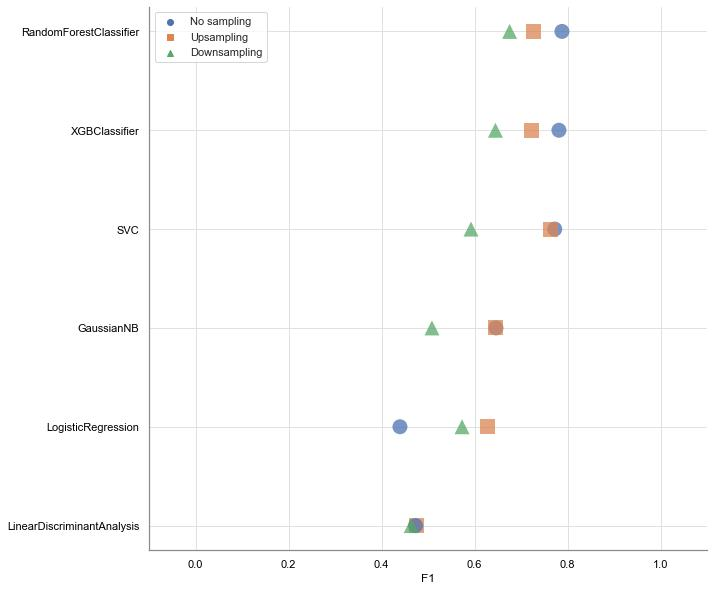
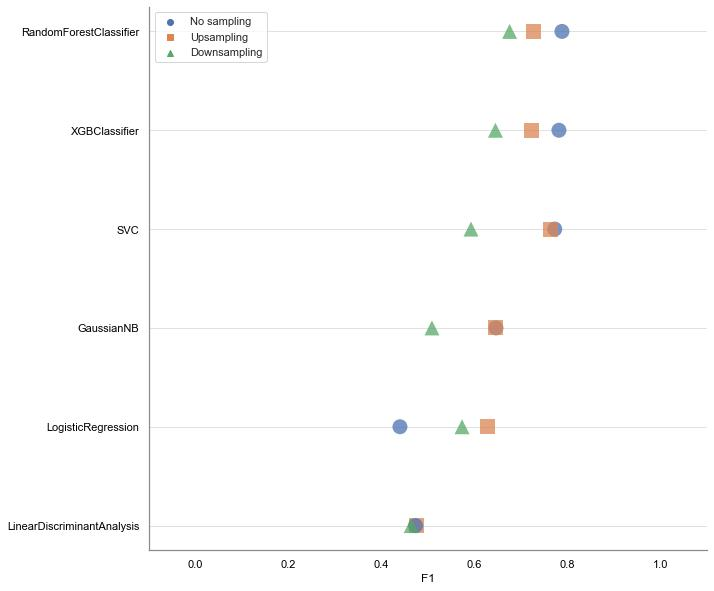
removed vertical gridlines

diff --git a/code/model_comparison.py b/code/model_comparison.py
@@ -42,7 +42,7 @@ for idx, val in enumerate(df.columns[2:]):
     ax.tick_params(axis='x', colors = light[0], labelcolor=dark_bright[0])
     ax.tick_params(axis='y', colors = light[0], labelcolor=dark_bright[0])
     ax.yaxis.set_ticks_position('none')
-    ax.grid(color = grid[0], axis='x')
+    ax.grid(color = 'w', axis='x')
     ax.grid(color = grid[0], axis='y')
     ax.legend(loc="upper left")
     ax.set_axisbelow(True)
